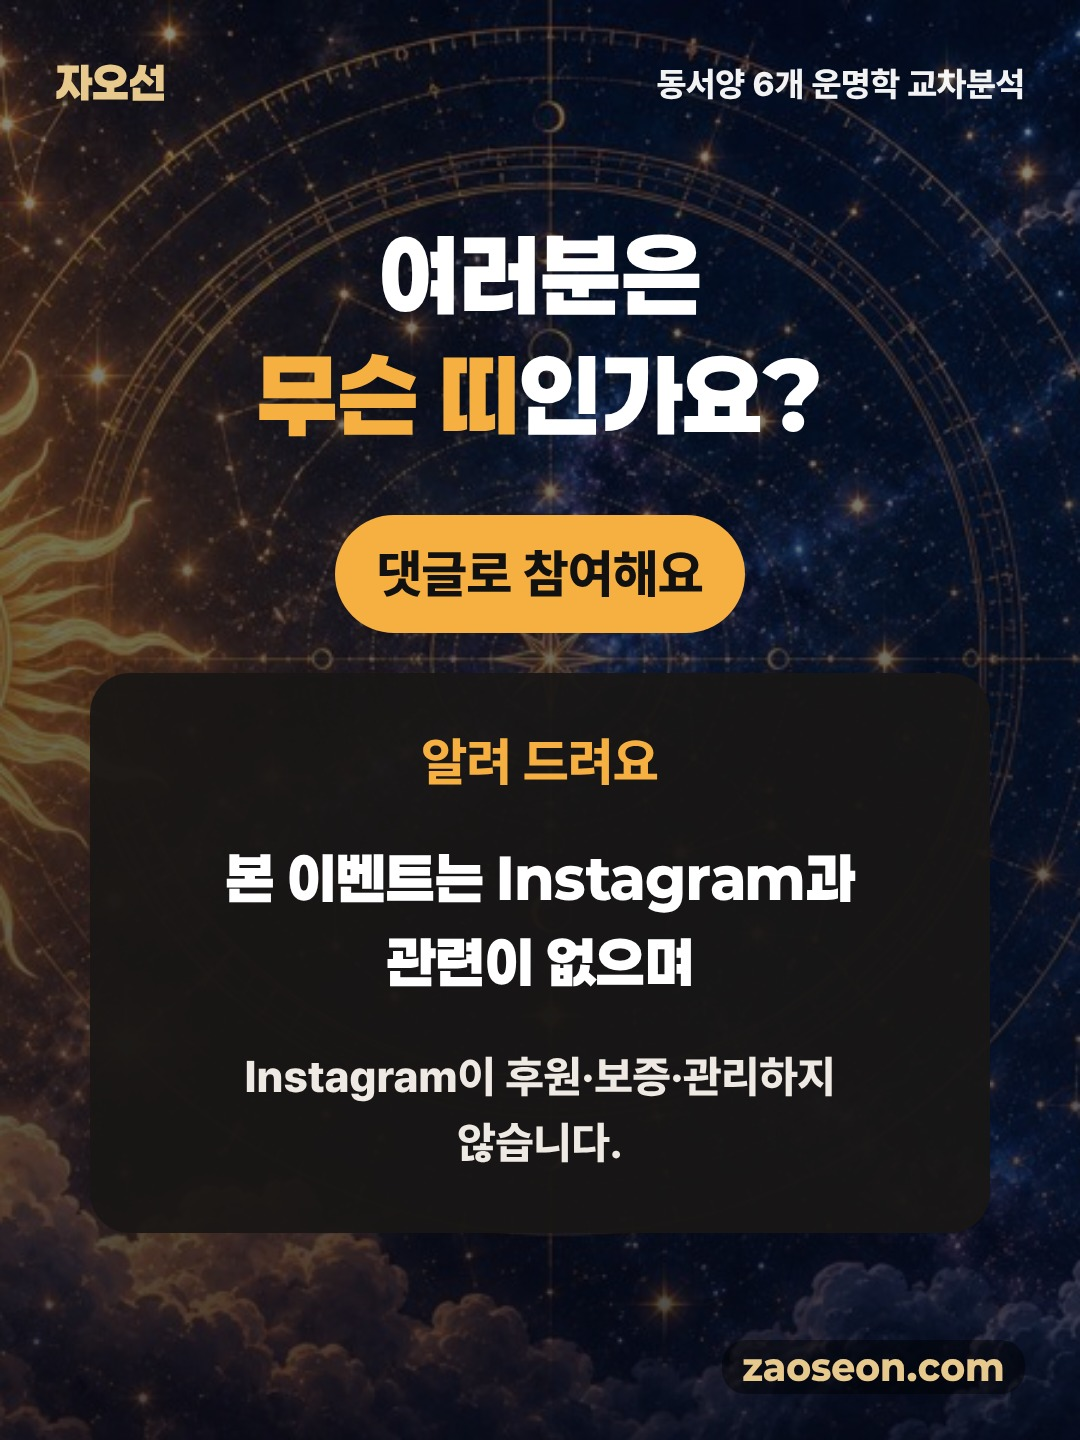
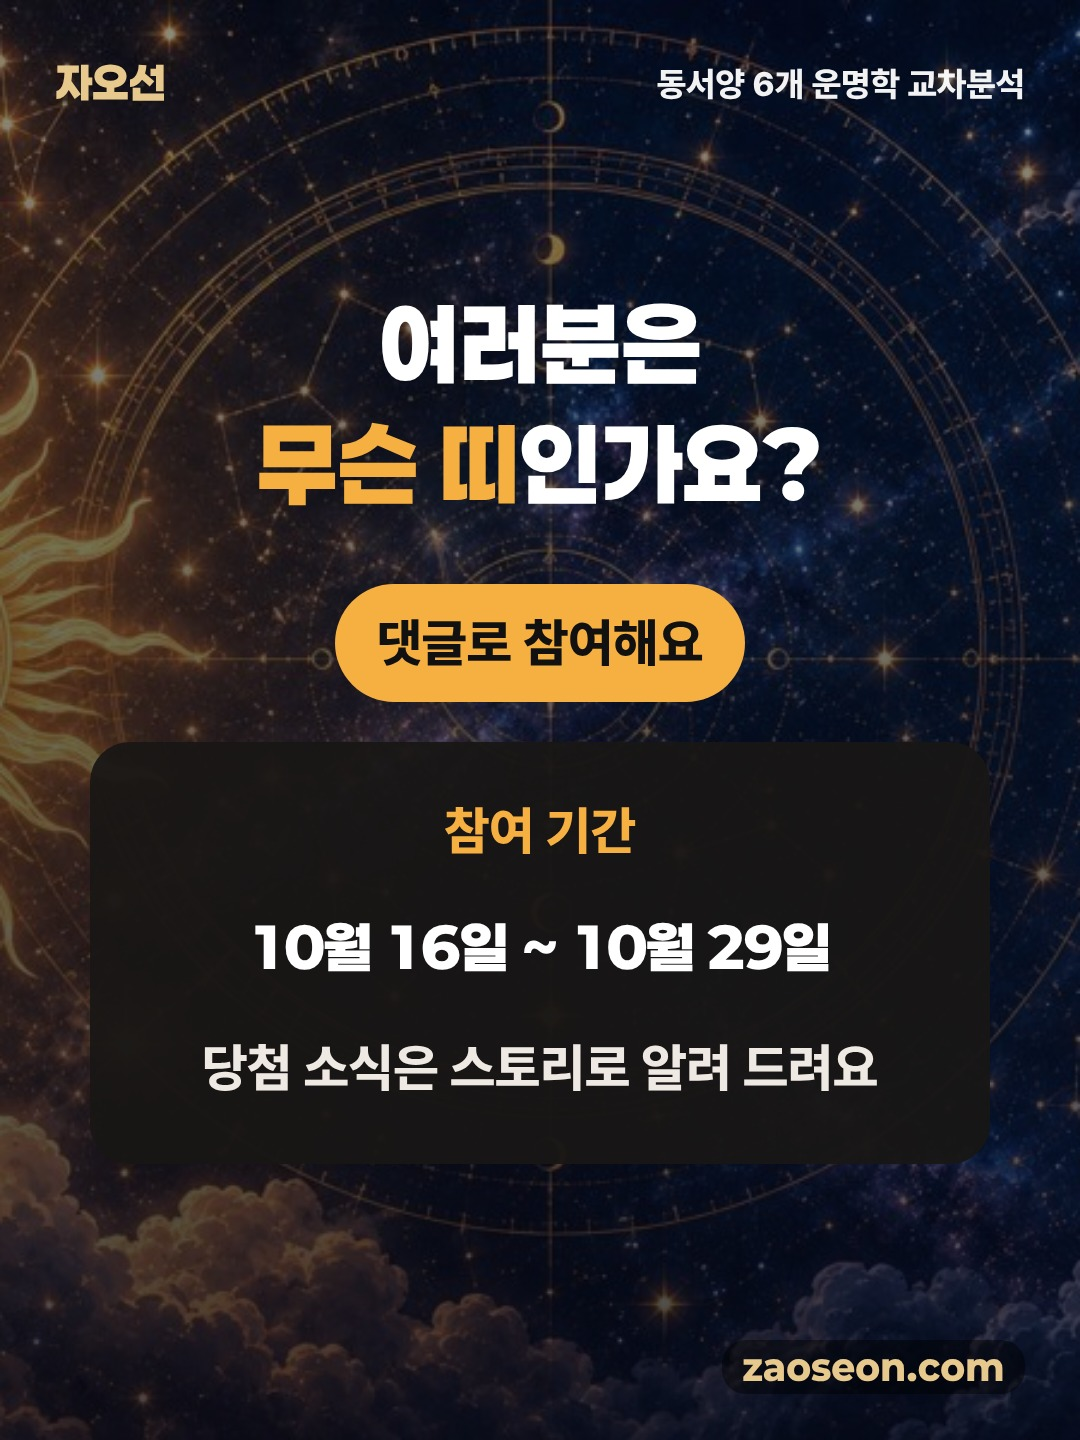
event-follow1016 7장: Instagram 고지 빼고 참여 기간으로 교체(대표 재요청 mv7l6sbe, 고지는 캡션에 유지)

diff --git a/2026-event/build.py b/2026-event/build.py
@@ -64,7 +64,7 @@ def follow1016():
         body('경품', '2027 신년 감정서\nSTANDARD', '매주 한 분, 두 번 드려요\n10월 22일 · 10월 29일 발표'),
         body('발표', '스토리로\n알려 드려요', '당첨되신 분께 DM을 드려요.\nDM 받은 날부터 3일 안에\n답해 주세요.'),
         panel_page('꼭 읽어 주세요', '당첨 조건', [('공개 계정\n이벤트 외 게시물 3개 이상\n계정 개설 30일 이상', 52, '#fff'), ('같은 분이 두 번 당첨되지는 않아요', 44, GOLD), ('태어난 정보는 감정서를 쓰는 데에만 쓰고\n보내 드린 뒤 바로 지워요', 40, '#efe9e4')]),
-        end_page('여러분은\n*무슨 띠*인가요?', '댓글로 참여해요', '알려 드려요', '본 이벤트는 Instagram과\n관련이 없으며', 'Instagram이 후원·보증·관리하지\n않습니다.', 44),
+        end_page('여러분은\n*무슨 띠*인가요?', '댓글로 참여해요', '참여 기간', '10월 16일 ~ 10월 29일', '당첨 소식은 스토리로 알려 드려요'),  # 10/14 대표 재요청 mv7l6sbe: 마지막 장 Instagram 고지 뺌(고지는 캡션에 그대로)
     ]
 SETS = {'trial1015': trial1015, 'follow1016': follow1016}
 
